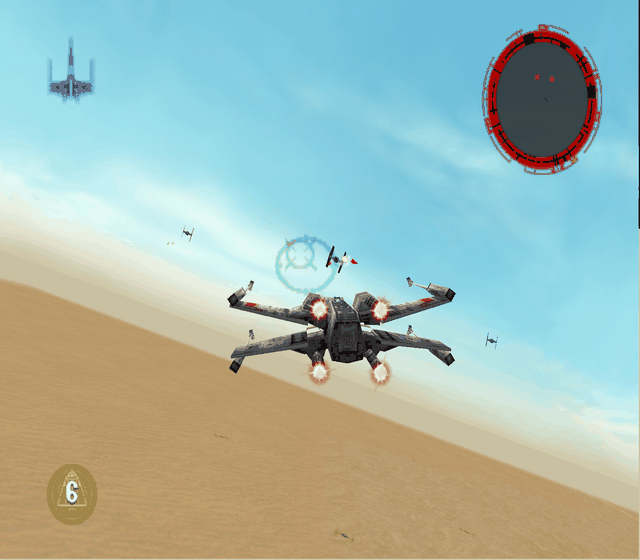
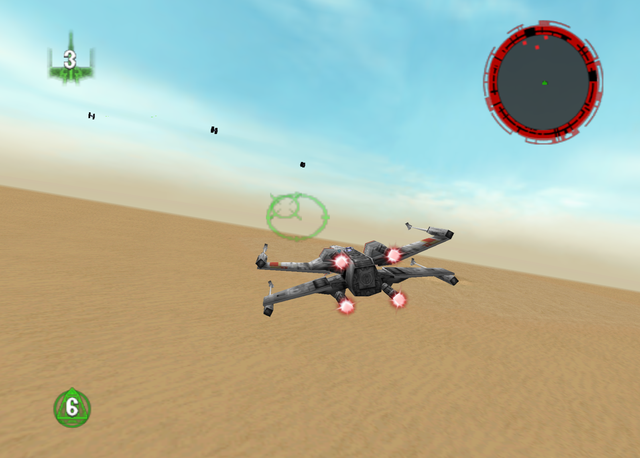
Add Replay Flags And The Desert Hunt Example
- --replay and --keep-running play a recording from the command line instead of ROGUESQ_LS_* variables
- The custom level wiki page links desert-hunt.zip, the example level and a recorded run to its debrief, with the command to watch it
- Recaptures both Desert Hunt screenshots, which the MCP capture had squashed and the debrief one cut off
- The env var flag table lists the new flags, and the nav budget row notes that ROGUESQ_SPEED needs no raise

diff --git a/src/main/cli.cpp b/src/main/cli.cpp
@@ -136,6 +136,8 @@ static const CliFlag kCliFlags[] = {
 
     {"boot-target",      "ROGUESQ_BOOT_TARGET",      CliFlag::Value, "",  "",  "skip the intro to a target: menu | menu:LABEL/LABEL... | demo:N | level:N[,craft] | abort:N | cutscene:N | lobby:host|join[,level]; N can be a mod level's id"},
     {"record",           "ROGUESQ_LS_RECORD",        CliFlag::Value, "",  "",  "record the next mission's input to <path.rec>, to replay it later"},
+    {"replay",           "ROGUESQ_LS_REPLAY",        CliFlag::Value, "",  "",  "play a recording made with --record (start its level with --boot-target)"},
+    {"keep-running",     "ROGUESQ_LS_KEEP_RUNNING",  CliFlag::Bool,  "1", "0", "stay on the last screen when a replay ends instead of quitting"},
 };
 
 static void print_cli_usage()

diff --git a/docs/engine/debug-trace-env-vars.md b/docs/engine/debug-trace-env-vars.md
@@ -63,6 +63,8 @@ Use `1` to enable and `0` to disable a default-on switch; unset a variable to re
 | `ROGUESQ_FORCE_LOWRES=1` | — | off | From the main menu on, keeps the game's HIGH RESOLUTION option off (clears bit 0 of `gGameSettings+0x10`, byte 0x130B53, every present) without touching the save, like switching it in Options after a hi-res boot; for low-res A/B runs. |
 | `ROGUESQ_BOOT_TARGET` | `--boot-target` | unset | Drive the game to a target; see [Boot / attract-demo navigation](#boot--attract-demo-navigation). |
 | `ROGUESQ_LS_RECORD=<path.rec>` | `--record` | unset | Record the next mission's input; see [Record / replay and co-op](#record--replay-and-co-op). |
+| `ROGUESQ_LS_REPLAY=<path.rec>` | `--replay` | unset | Play a recording; start its level with `--boot-target`. |
+| `ROGUESQ_LS_KEEP_RUNNING=1` | `--keep-running` | off | Stay on the last screen when a replay ends instead of quitting. |
 
 Other user options without flags:
 
@@ -122,7 +124,7 @@ Driven from `update_screen` (`src/video/rt64_render_context.cpp`) and the nav se
 | `ROGUESQ_NAV_ABORT_SAME` | unset | `1`: `ROGUESQ_NAV_ABORT_LOOP` repeats the same level instead of moving to the next, so anything a repeat adds is left over, not first-load caching. |
 | `ROGUESQ_CINE_FASTFWD` | 400 with any `BOOT_TARGET`, else 0 | Adds N to the submitted-frame counter (`0x8011A890`, +1 per `submitGfxFrame`) each present while the intro cutscene runs and its `gateCtr` (`0x800B0B28`) is below the end threshold (`cutscene[0x44]-0xA`). The intro completes through the game's own logic in seconds. |
 | `ROGUESQ_SKIP_DEMO` | unset | Pins `gGameSettings.demoId` (`0x80130B54`) = N (0-5) and its wrap counter (`0x80130B55`) = 0 every present, so attract mode plays and loops that demo. 0 = Mos Eisley, 1 = Jade Moon, 2 = Kile II, 3 = Taloraan, 4 = Fest, 5 = Trench Run (`dLevelByDemoId` `0x800CD404`). Example: `ROGUESQ_SKIP_DEMO=1 ROGUESQ_CINE_FASTFWD=200` reaches Jade Moon in about 2 min. |
-| `ROGUESQ_NAV_STEP_BUDGET` | 1200 | Presents per nav step before the sequencer gives up. Raise for slow builds (e.g. `12000` for Linux Debug under WSL). |
+| `ROGUESQ_NAV_STEP_BUDGET` | 1200 | Presents per nav step; the sequencer gives up only once a step is past this and 20 s of wall time, so `ROGUESQ_SPEED` needs no raise. Raise for slow builds (e.g. `12000` for Linux Debug under WSL). |
 | `ROGUESQ_NAV_WATCH_CUTSCENES` | off | `1`: the nav sequencer presses nothing while a cutscene or opening crawl plays. |
 | `ROGUESQ_NAV_BROWSE` | 0 | `<n>`: a co-op host's mission select first walks n levels past its target, a press as soon as the last one ends, then back to pick it (`run-mp.ps1 -HostBrowse`). |
 | `ROGUESQ_MOD_LEVEL` | unset | Set for you by `--boot-target=level:<id>` (also `hangar:` and `cutscene:`) when `<id>` is a mod level; the nav then picks the level's own SELECT LEVEL entry, so its briefing recording plays as for a player's pick (`[levels] playing <id>`). `<id>` of an installed mod level (a mod's levels.json): whenever its template plays (a `BOOT_TARGET` run, a replay of the template's recording), it plays as that mod level: its files, cutscenes, craft, medals and debrief. Logs the `[levels]` redirects. |

diff --git a/docs/wiki/Make-a-Custom-Level.md b/docs/wiki/Make-a-Custom-Level.md
@@ -76,6 +76,20 @@ The last kill ends the mission:
 
 To make the player land too, look at the outpost spot, add a **Reach an area** objective and click its add icon. Set the area's **Radius** in Events mode.
 
+## Try the example
+
+[desert-hunt.zip](files/desert-hunt.zip) is Desert Hunt as exported, plus `desert_hunt.rec`, a recorded run that downs the three TIEs.
+
+1. Unzip it into the game's `mods` folder and check it's on in the **Mods** window (**F6**).
+2. Play it from **SELECT LEVEL**, or open the Explorer's export next to yours to compare.
+3. To watch the recorded run, start the game from its folder with:
+
+   ```sh
+   RogueSquadron64Recomp.exe --boot-target level:desert_hunt --replay mods/desert-hunt/desert_hunt.rec --keep-running
+   ```
+
+   It flies the run and stays on the medal screen. Your own runs record the same way with `--record <file.rec>`.
+
 ## Not yet possible
 
 - A map bigger than its template.
